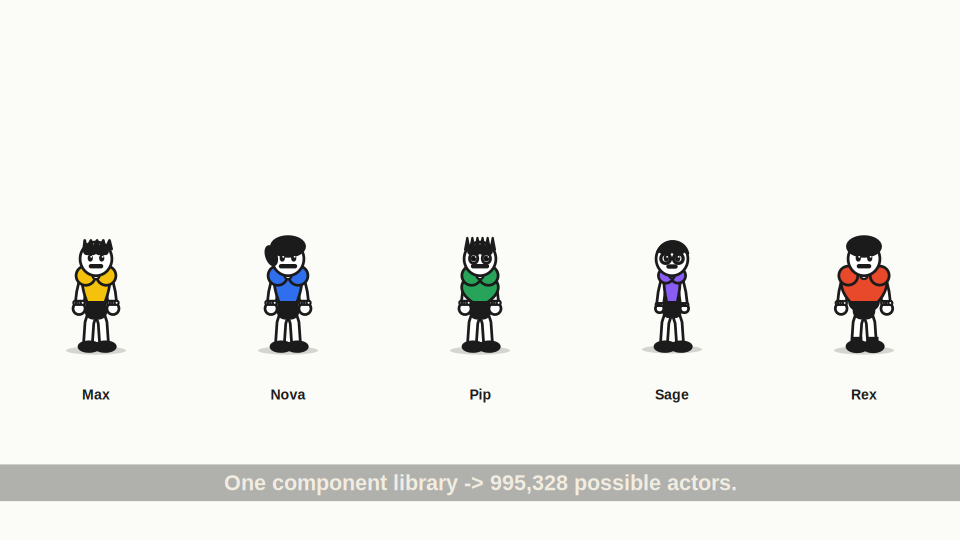
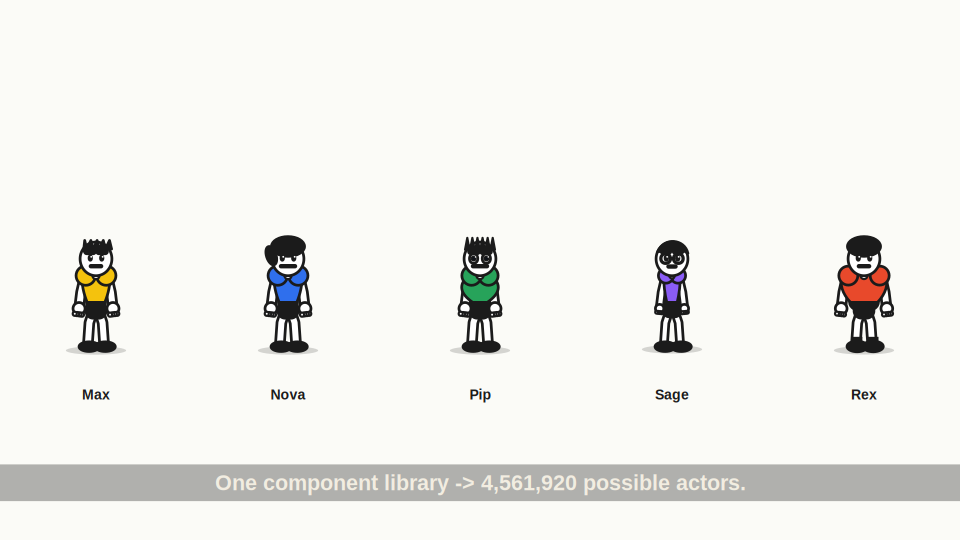
Secondary motion, hand gestures, walk cycle, larger part library
Pushes actor quality toward the style-guide bar:
- Secondary motion: hair bounce + hand follow-through via velocity lag
  (renderer samples a moment earlier and trails head/hands).
- Hand gestures: open_hand/wave/fist/point/thumbs_up/peace drawers, oriented
  along the forearm, selectable per-moment through a new Posing.hands track
  ("hands" keyframes on clips; held, not blended).
- Walk cycle (clip.walk) + an "explain"/pointing clip; wave clip now waves
  with an open hand.
- Hair library grown to 11 styles (double_tuft/buzz/flattop/curly/messy + …);
  design space now ~4.5M characters.
- 4 new tests (51 total, all passing); refreshed sample renders incl. a
  hairstyle-variety sheet; ARCHITECTURE statuses updated (gesture/physics).

diff --git a/stickforge/parts/builtins.py b/stickforge/parts/builtins.py
@@ -123,6 +123,50 @@ def hair_ponytail(cv, f: PartFrame):
     hair_mop(cv, f)
 
 
+@HAIRS.register("double_tuft")
+def hair_double_tuft(cv, f: PartFrame):
+    col = f.color("hair", "#3a2a22")
+    for sx in (-1, 1):
+        base_l, base_r = f.at(sx * 0.5 - 0.16, -0.62), f.at(sx * 0.5 + 0.16, -0.62)
+        tip = f.at(sx * 0.5, -1.28)
+        cv.filled_path(f"M {_pt(base_l)} L {_pt(tip)} L {_pt(base_r)} Z",
+                       col, f.color("outline"), f.outline_w)
+
+
+@HAIRS.register("buzz")
+def hair_buzz(cv, f: PartFrame):
+    col = f.color("hair", "#3a2a22")
+    cv.ellipse(f.at(0, -0.72), f.size * 0.98, f.size * 0.4, col,
+               f.color("outline"), f.outline_w, rot=f.angle)
+
+
+@HAIRS.register("flattop")
+def hair_flattop(cv, f: PartFrame):
+    col = f.color("hair", "#3a2a22")
+    d = (f"M {_pt(f.at(-0.85, -0.55))} L {_pt(f.at(-0.85, -1.05))} "
+         f"L {_pt(f.at(0.85, -1.05))} L {_pt(f.at(0.85, -0.55))} Z")
+    cv.filled_path(d, col, f.color("outline"), f.outline_w)
+
+
+@HAIRS.register("curly")
+def hair_curly(cv, f: PartFrame):
+    col = f.color("hair", "#3a2a22")
+    for i in range(6):
+        x = -0.78 + 1.56 * (i / 5)
+        cv.circle(f.at(x, -0.82), f.size * 0.26, f.color("outline"),
+                  f.outline_w * 0.8, fill=col)
+
+
+@HAIRS.register("messy")
+def hair_messy(cv, f: PartFrame):
+    col = f.color("hair", "#3a2a22")
+    for i, (x, tilt) in enumerate(((-0.6, -0.25), (-0.2, 0.15), (0.2, -0.18),
+                                   (0.6, 0.22), (0.0, 0.0))):
+        base = f.at(x, -0.6)
+        tip = f.at(x + tilt, -1.2)
+        cv.stroke([base, tip], col, f.outline_w * 2.4)
+
+
 # --------------------------------------------------------------------------- #
 # EYES — big and expressive; modulated by eye_open / eye_wide / gaze.
 # --------------------------------------------------------------------------- #
@@ -309,6 +353,55 @@ def hand_glove(cv, f):
               fill=f.color("accent", "#ffffff"))
     cv.circle(f.at(0, 0.9), f.size * 0.55, f.color("outline"),
               f.outline_w, fill=f.color("accent", "#ffffff"))
+
+
+# --- expressive gestures (drawn wrist-at-origin, fingers toward local -y,
+#     so they orient along the forearm). Selectable per-moment via Posing.hands.
+def _finger(cv, f, bx, by, tx, ty, w):
+    cv.stroke([f.at(bx, by), f.at(tx, ty)], f.color("outline"), w)
+    cv.stroke([f.at(bx, by), f.at(tx, ty)], f.color("skin", "#ffffff"), w * 0.5)
+
+
+def _palm(cv, f, r=0.92):
+    cv.circle(f.center, f.size * r, f.color("outline"), f.outline_w,
+              fill=f.color("skin", "#ffffff"))
+
+
+@HANDS.register("open_hand")
+@HANDS.register("wave")
+def hand_open(cv, f):
+    w = f.size * 0.72
+    for i in range(4):
+        a = -0.55 + i * 0.37
+        _finger(cv, f, a * 0.5, -0.2, a, -1.45, w)
+    _finger(cv, f, -0.7, 0.2, -1.25, -0.35, w)        # thumb
+    _palm(cv, f)
+
+
+@HANDS.register("fist")
+def hand_fist(cv, f):
+    _palm(cv, f, 1.0)
+    for i in range(4):                                 # knuckle dimples
+        cv.dot(f.at(-0.5 + i * 0.33, -0.55), f.size * 0.12, f.color("outline"))
+
+
+@HANDS.register("point")
+def hand_point(cv, f):
+    _palm(cv, f, 0.95)
+    _finger(cv, f, 0.0, -0.2, 0.0, -1.7, f.size * 0.8)  # index extended
+
+
+@HANDS.register("thumbs_up")
+def hand_thumbs_up(cv, f):
+    _palm(cv, f, 0.98)
+    _finger(cv, f, -0.5, -0.1, -1.0, -1.2, f.size * 0.85)  # thumb up-out
+
+
+@HANDS.register("peace")
+def hand_peace(cv, f):
+    _palm(cv, f, 0.95)
+    _finger(cv, f, -0.18, -0.2, -0.5, -1.6, f.size * 0.7)
+    _finger(cv, f, 0.18, -0.2, 0.5, -1.6, f.size * 0.7)
 
 
 # --------------------------------------------------------------------------- #

diff --git a/stickforge/render/illustrated.py b/stickforge/render/illustrated.py
@@ -84,6 +84,21 @@ class IllustratedRenderer:
         limb_fill = build["limb"] * unit
         limb_out = limb_fill + 2 * ow
 
+        # --- secondary motion: solve a moment earlier for follow-through ---
+        dt = 0.05
+        gain, cap = 0.55, unit * 0.10
+        prev = actor.posing_at(max(0.0, t - dt))
+        root_p = Vec2(actor.pos[0] * cfg.width + prev.offset.x * unit,
+                      actor.pos[1] * cfg.height + prev.offset.y * unit)
+        solved_p = skel.solve(root_p, unit, prev.pose)
+
+        def lag(name):
+            if name not in solved or name not in solved_p:
+                return Vec2(0.0, 0.0)
+            d = (solved_p[name].end - solved[name].end) * gain
+            m = d.length()
+            return d * (cap / m) if m > cap else d
+
         def chain(*names):
             pts = []
             for nm in names:
@@ -125,14 +140,16 @@ class IllustratedRenderer:
 
         # --- arms (white) + hands, seated at the shoulders ---------------
         # left arm sits on -perp side, right arm on +perp side
-        for ua, fa, side in (("upper_arm_l", "forearm_l", -1),
-                             ("upper_arm_r", "forearm_r", 1)):
+        for ua, fa, side, hkey in (("upper_arm_l", "forearm_l", -1, "l"),
+                                   ("upper_arm_r", "forearm_r", 1, "r")):
             off = arm_off * side
             pts = [p + off for p in chain(ua, fa)]
             cv.limb(pts, out, skin, limb_out, limb_fill)
             if fa in solved:
-                self._part(HANDS, design.part("hands"), cv,
-                           solved[fa].end + off, limb_fill * 1.0, 0.0, pal, {}, ow)
+                gesture = posing.hands.get(hkey) or design.part("hands")
+                # hand follows through; oriented along the forearm
+                self._part(HANDS, gesture, cv, solved[fa].end + off + lag(fa),
+                           limb_fill * 1.0, solved[fa].world_angle, pal, {}, ow)
 
         # --- torso (shirt) with rounded shoulders + short sleeves --------
         self._torso(cv, solved, unit, build, pal, ow)
@@ -150,7 +167,9 @@ class IllustratedRenderer:
             cv.limb([head.start, neck_top], out, skin, limb_out * 0.8, limb_fill * 0.8)
             ang = head.world_angle
             self._part(HEADS, design.part("head"), cv, center, hr, ang, pal, {}, ow)
-            self._part(HAIRS, design.part("hair"), cv, center, hr, ang, pal, {}, ow)
+            # hair bounces / trails the head (secondary motion)
+            self._part(HAIRS, design.part("hair"), cv, center + lag("head") * 1.4,
+                       hr, ang, pal, {}, ow)
             face = posing.expr
             self._part(EYES, design.part("eyes"), cv, center, hr, ang, pal, face, ow)
             self._part(BROWS, design.part("brows"), cv, center, hr, ang, pal, face, ow)

diff --git a/stickforge/animation/clip.py b/stickforge/animation/clip.py
@@ -24,6 +24,7 @@ class Posing:
     expr: dict = field(default_factory=lambda: dict(NEUTRAL))
     offset: Vec2 = field(default_factory=lambda: Vec2(0.0, 0.0))
     scale: float = 1.0
+    hands: dict = field(default_factory=dict)   # {"l": gesture, "r": gesture}
 
 
 def _bracket(keys: list[dict], t: float):
@@ -49,6 +50,7 @@ class AnimationClip:
     pose_keys: list[dict] = field(default_factory=list)
     expr_keys: list[dict] = field(default_factory=list)
     offset_keys: list[dict] = field(default_factory=list)
+    hand_keys: list[dict] = field(default_factory=list)
     name: str = "clip"
 
     @classmethod
@@ -56,7 +58,8 @@ class AnimationClip:
         """Build from a JSON-style spec.
 
         Pose keys take ``pose`` (name or inline dict); expression keys take
-        ``expr``; offset keys take ``value`` ([x, y] in figure units).
+        ``expr``; offset keys take ``value`` ([x, y] in figure units); hand keys
+        take ``l``/``r`` gesture names (held, not blended).
         """
         return cls(
             duration=float(spec.get("duration", 1.0)),
@@ -64,6 +67,7 @@ class AnimationClip:
             pose_keys=[dict(k) for k in spec.get("poses", [])],
             expr_keys=[dict(k) for k in spec.get("expressions", [])],
             offset_keys=[dict(k) for k in spec.get("offset", [])],
+            hand_keys=[dict(k) for k in spec.get("hands", [])],
             name=name,
         )
 
@@ -89,5 +93,12 @@ class AnimationClip:
             k0, k1, e = _bracket(self.offset_keys, t)
             v0, v1 = k0["value"], k1["value"]
             out.offset = Vec2(lerp(v0[0], v1[0], e), lerp(v0[1], v1[1], e))
+
+        if self.hand_keys:
+            held = self.hand_keys[0]
+            for k in sorted(self.hand_keys, key=lambda k: k["t"]):
+                if k["t"] <= t:
+                    held = k
+            out.hands = {k: v for k, v in held.items() if k in ("l", "r")}
 
         return out

diff --git a/tests/test_illustrated.py b/tests/test_illustrated.py
@@ -104,6 +104,35 @@ class TestIllustratedRender(unittest.TestCase):
         self.assertEqual(a, b)                      # deterministic, no per-frame jitter
 
 
+class TestGesturesAndMotion(unittest.TestCase):
+    def test_hand_gestures_registered(self):
+        for g in ("open_hand", "point", "thumbs_up", "peace", "fist", "wave"):
+            self.assertIn(g, parts.HANDS)
+
+    def test_hands_track_holds_latest(self):
+        clip = AnimationClip.from_spec({
+            "duration": 3.0,
+            "poses": [{"t": 0, "pose": "idle"}],
+            "hands": [{"t": 0, "l": "fist", "r": "fist"},
+                      {"t": 1.0, "r": "point"}]})
+        self.assertEqual(clip.sample(0.5).hands.get("r"), "fist")
+        self.assertEqual(clip.sample(2.0).hands.get("r"), "point")
+
+    def test_secondary_motion_renders(self):
+        lib = __import__("stickforge.studio", fromlist=["load_core_library"]).load_core_library()
+        scene = Scene.from_spec({
+            "id": "s", "duration": 1.0,
+            "actors": [{"id": "a", "character": "actor.max",
+                        "clip_id": "clip.explain", "pos": [0.5, 0.55],
+                        "unit_scale": 0.34}]}, lib)
+        svg = IllustratedRenderer(RenderConfig.for_format("preview")).render_frame(scene, 0.7, 17)
+        self.assertIn("</svg>", svg)        # gesture + lag path must not crash
+
+    def test_walk_clip_present(self):
+        lib = __import__("stickforge.studio", fromlist=["load_core_library"]).load_core_library()
+        self.assertIn("clip.walk", lib)
+
+
 class TestFX(unittest.TestCase):
     def test_effects_registered_and_draw(self):
         for name in ("speed_lines", "impact", "sweat", "stars", "lightbulb",

diff --git a/stickforge/animation/procedural.py b/stickforge/animation/procedural.py
@@ -57,4 +57,5 @@ def apply_life(posing: Posing, t: float, phase: float, amount: float = 1.0) -> P
     from ..core.geometry import Vec2
     off = Vec2(off.x + s * 0.006 * amount, off.y + b * 0.004 * amount)
 
-    return Posing(pose=pose, expr=expr, offset=off, scale=posing.scale)
+    return Posing(pose=pose, expr=expr, offset=off, scale=posing.scale,
+                  hands=posing.hands)

diff --git a/ARCHITECTURE.md b/ARCHITECTURE.md
@@ -47,9 +47,9 @@ backend and is not the product look.
 | 3 | Rigging Engine | **Built** | `character/skeleton.py` — hierarchical FK; `SKELETONS` registry |
 | 4 | Pose Engine | **Built** | `pose/` — `POSES` registry, partial poses, blending |
 | 5 | Expression Engine | **Built** | `expression/` — continuous params, `EXPRESSIONS` registry |
-| 6 | Gesture Engine | **Partial** | gestures = pose sequences in `AnimationClip`; add a gesture lib over `pose/` |
-| 7 | Motion Engine | **Built** | `animation/clip.py` keyframes + `procedural.py` life |
-| 8 | Physics Engine | **Partial** | easings cover anticipation/overshoot/bounce/arcs; add secondary-motion solver atop FK |
+| 6 | Gesture Engine | **Built (basic)** | hand-gesture styles (point/thumbs-up/peace/fist/open/wave) + per-moment `hands` track on clips |
+| 7 | Motion Engine | **Built** | `animation/clip.py` keyframes + `procedural.py` life; walk cycle clip |
+| 8 | Physics Engine | **Built (basic)** | easings (anticipation/overshoot/bounce) + secondary-motion lag (hair bounce / hand follow-through) in the illustrated renderer |
 | 9 | Camera Engine | **Built** | `scene/camera.py` — keyframable zoom/pan + shake; add orbit/parallax |
 | 10 | Scene Builder | **Built** | `scene/scene.py` — actors/props/background/camera from spec |
 | 11 | Timeline Editor | **Partial (data)** | `scene/scene.py:Timeline` sequences scenes; GUI editor is future |
